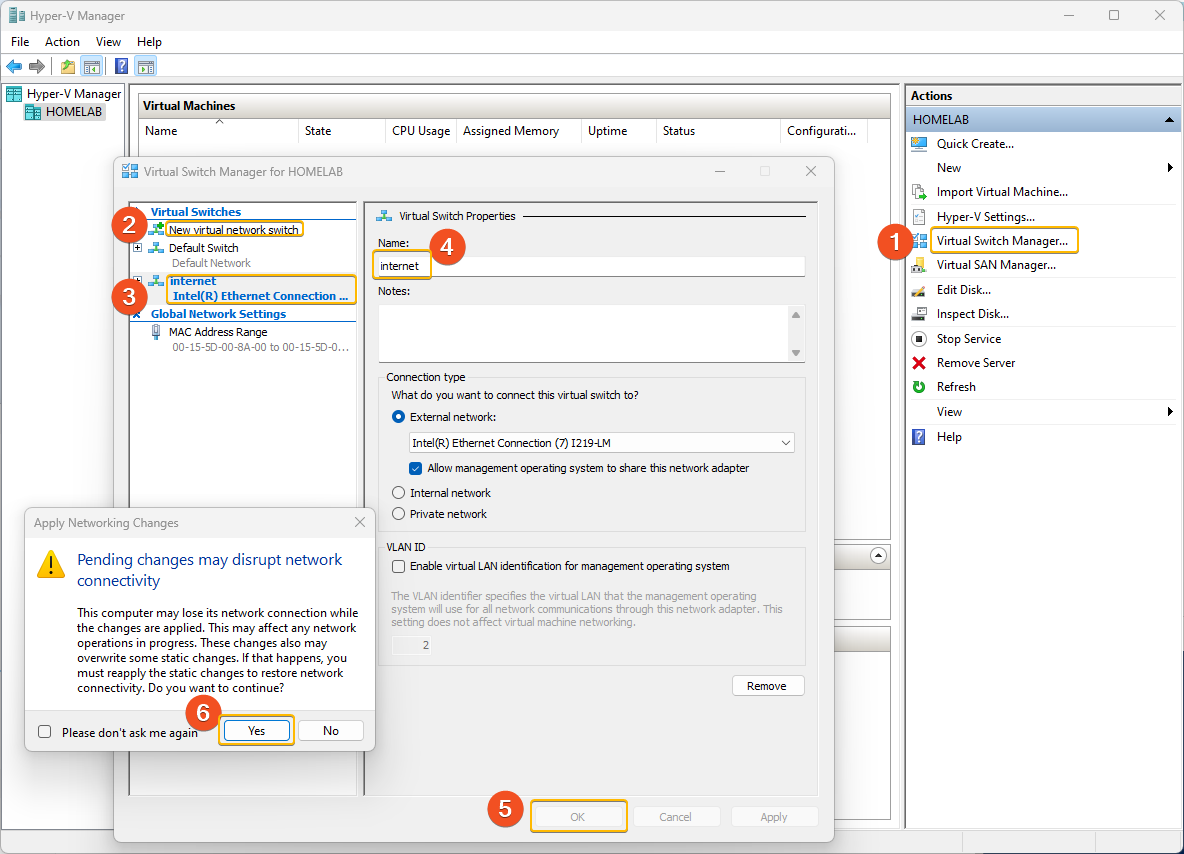
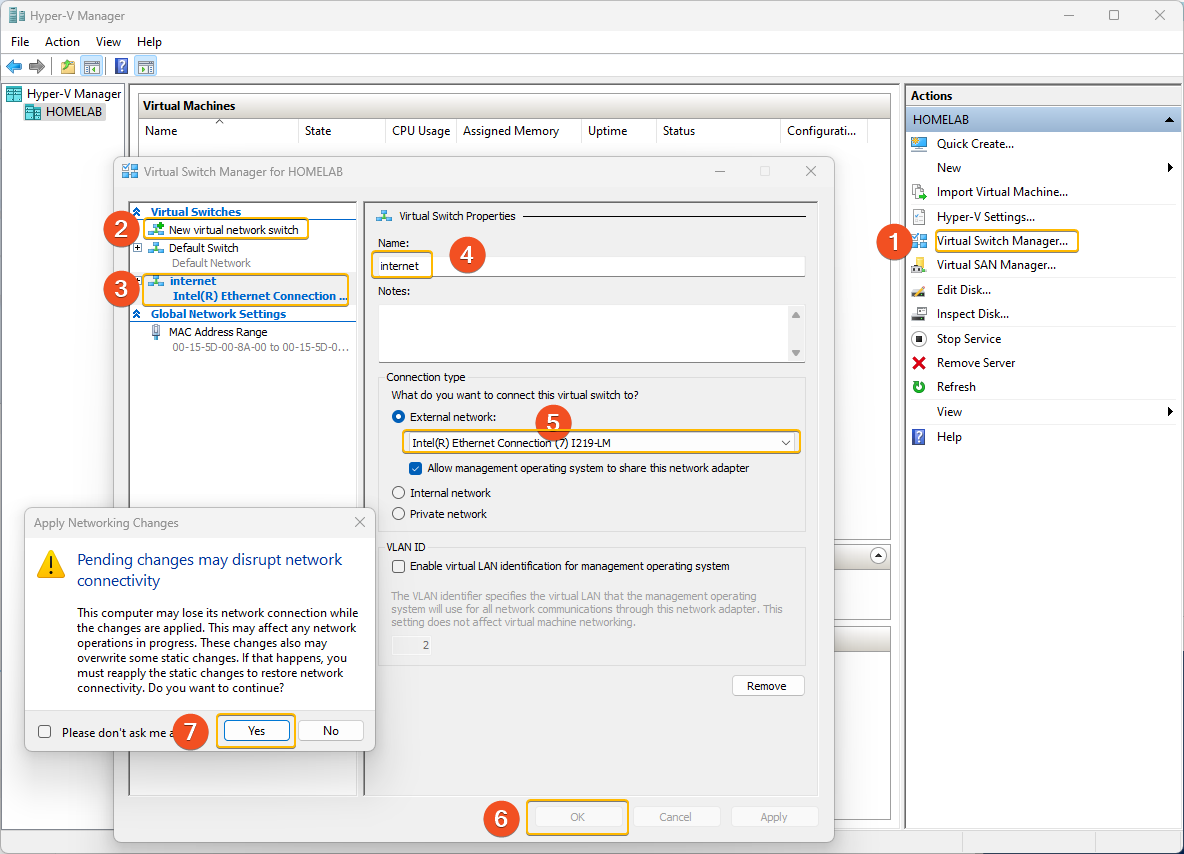
update sequence

diff --git a/docs/kubernetes-lab-setup/000-Prerequisites/004-Hyper-V-VM-creation.md b/docs/kubernetes-lab-setup/000-Prerequisites/004-Hyper-V-VM-creation.md
@@ -11,6 +11,8 @@ Before running the script, do create a Hyper-V Virtual `External` network with t
 
 Refer to following screenshot for the relevant steps.
 
+One key point to pay attention to is the step `5` ensure the selected Network has connectivity to the internet. This is key to ensure connectivity to the Internet.
+
 ![004-01-Hyper-V-create-network](./../screenshots/004-01-Hyper-V-create-network.png) 
 
 The PowerShell script to create the VM can now be executed.
